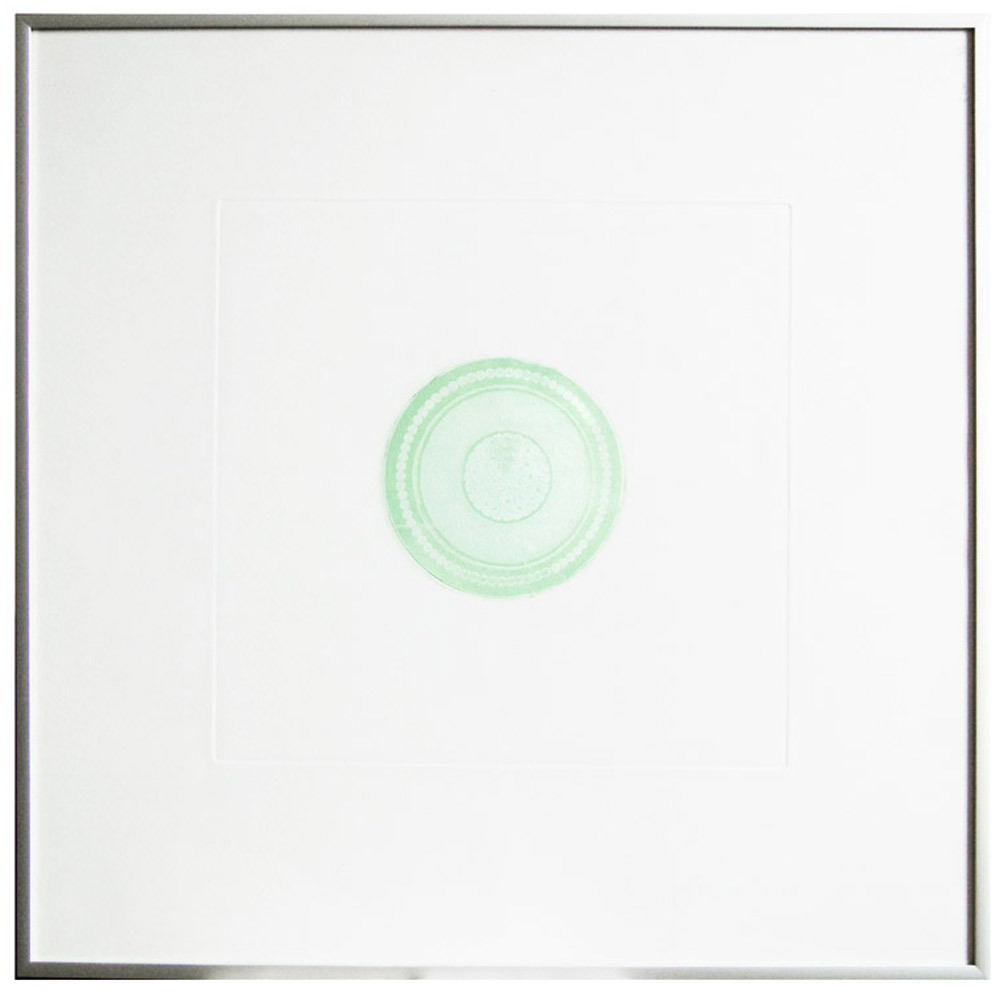
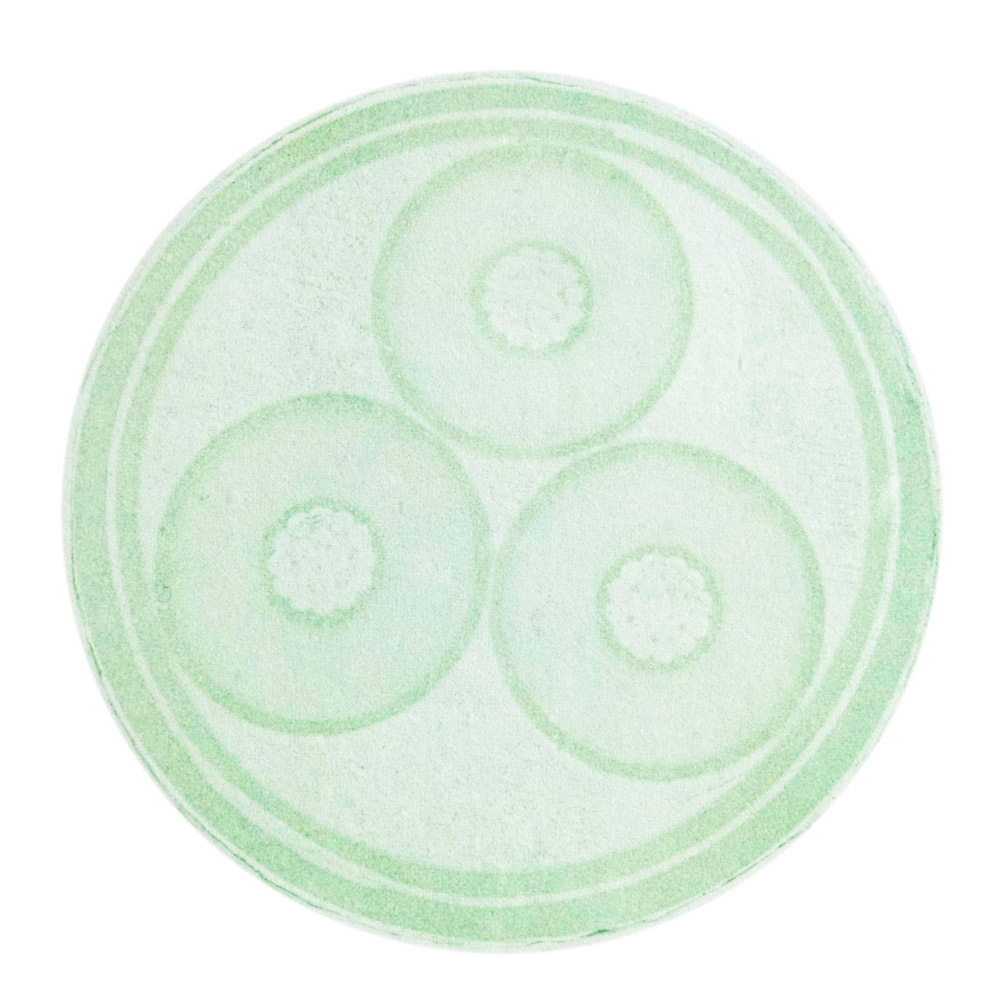
Projects 2/2 : img +en

diff --git a/content/en/projects/kv.md b/content/en/projects/kv.md
@@ -1,0 +1,28 @@
+---
+title: "kV"
+priority: 6
+thumbnail:
+  src: "/images/projects/kv-thumbnail.png"
+  alt: ""
+cover:
+  src: "/images/projects/kv-0.jpg"
+  alt: ""
+moment: "[2016]"
+legend: |
+  Heliogravure on copper.\
+  30 x 30 cm.
+
+  Engravings on paper, copper oxide made from electric cables.\
+  50 x 50 cm.
+description: |
+  Omnipresent in our environment, copper wire is the primary medium for transporting energy and conducting electricity. It is the image of the technical object in its simplest form. 
+
+  The three heliogravures depict cross-sections of electric cables in their original size. Taken from the plates, several prints are obtained using a copper oxide pigment. This pigment, made from oxidized electrical wire, evokes the plasticity of cables in their raw materiality.
+---
+
+![](/images/projects/kv-1.jpg)
+
+![](/images/projects/kv-2.jpg)
+![](/images/projects/kv-3.jpg)
+
+![](/images/projects/kv-4.jpg)

diff --git a/content/fr/projects/309ppp.md b/content/fr/projects/309ppp.md
@@ -14,9 +14,10 @@ legend: |
 
   29 x 41 x 10 cm.
 description: |
-  Après avoir été numérisée à l’aide d’un scanner, l’image d’un morceau de silicium, un matériau semi-conducteur, est dévoilée sur la tranche des feuilles d’une ramette de papier. Le silicium, placé au sommet de la pile de papier, opère ainsi un jeu sur la condition physique et matérielle du numérique.
+  Après avoir été numérisée à l’aide d’un scanner, l’image d’un morceau de silicium (matériau semi-conducteur), est dévoilée sur la tranche des feuilles d’une ramette de papier. Le silicium, placé au sommet de la pile de papier, opère ainsi un jeu sur la condition physique et matérielle du numérique.
 ---
-
-![](/images/projects/309ppp-1.jpg)![](/images/projects/309ppp-2.jpg)
-
 ![](/images/projects/309ppp-3.jpg)
+
+![](/images/projects/309ppp-1.jpg)
+![](/images/projects/309ppp-2.jpg)
+

diff --git a/content/en/projects/feedback.md b/content/en/projects/feedback.md
@@ -1,0 +1,24 @@
+---
+title: "Feedback"
+priority: 8
+thumbnail:
+  src: "/images/projects/feedback-thumbnail.png"
+  alt: ""
+cover:
+  src: "/images/projects/feedback-0.jpg"
+  alt: ""
+moment: "[2017]"
+legend: |
+  Hard disk, microphone, computer, speakers.
+
+
+  Variable dimensions.
+description: |
+  This apparatus uses a feedback loop as its generating principle. A microphone records the sounds emitted when data is recorded on a hard disk. The microphone's capture is recorded directly onto the disk. The sound recording itself becomes the source of its own recording, a dialogue between the medium and the nature of the information generated. The installation questions the constant passage of information from digital to analog.
+---
+
+![](/images/projects/feedback-1.jpg)
+![](/images/projects/feedback-2.jpg)
+
+<lite-vimeo videoid="208955887">
+</lite-vimeo>

diff --git a/content/fr/projects/kv.md b/content/fr/projects/kv.md
@@ -9,11 +9,11 @@ cover:
   alt: ""
 moment: "[2016]"
 legend: |
-  Héliogravures sur cuivre.
+  Héliogravures sur cuivre.\
   30 x 30 cm.
 
 
-  Gravures sur papier, oxyde de cuivre réalisée à partir de câbles électrique. 
+  Gravures sur papier, oxyde de cuivre réalisée à partir de câbles électrique.\
   50 x 50 cm.
 description: |
   Omniprésent dans notre environnement, le fil de cuivre est le premier outil de transport d’énergie et de conductibilité électrique. Il est à l’image de l’objet technique dans son plus simple appareil. 
@@ -24,6 +24,6 @@ description: |
 ![](/images/projects/kv-1.jpg)
 
 ![](/images/projects/kv-2.jpg)
-
 ![](/images/projects/kv-3.jpg)
-![](/images/projects/kv-1.jpg)
+
+![](/images/projects/kv-4.jpg)

diff --git a/content/en/projects/transdata.md b/content/en/projects/transdata.md
@@ -1,0 +1,20 @@
+---
+title: "Transdata"
+thumbnail:
+  src: "/images/projects/transdata-thumbnail.png"
+  alt: ""
+cover:
+  src: "/images/projects/transdata-0.jpg"
+  alt: ""
+priority: 3
+moment: "[2016]"
+legend: |
+  98 piezoelectric transducers, electric wires, digital device.  
+ 
+  70 x 70 cm.
+description: |
+  The installation sonically retransmits the activity of data flows passing through the exhibition space. Variations in the frequencies contained in the cables are translated in real time, and unfold in space like the continuous rustling of the data that surrounds us.
+---
+
+![](/images/projects/transdata-1.jpg)
+![](/images/projects/transdata-2.jpg)

diff --git a/content/en/projects/309ppp.md b/content/en/projects/309ppp.md
@@ -1,0 +1,23 @@
+---
+title: "309ppp"
+priority: 6
+thumbnail:
+  src: "/images/projects/309ppp-thumbnail.png"
+  alt: ""
+cover:
+  src: "/images/projects/309ppp-0.jpg"
+  alt: ""
+moment: "[2017]"
+legend: |
+  Silicon, 309 laser prints. 
+
+
+  29 x 41 x 10 cm.
+description: |
+  After being digitally scanned, the image of a piece of silicon (a semiconductor material) is revealed on the edge of the sheets of a paper ream. The silicon, placed at the top of the paper stack, thus play on the physical and material condition of the digital.
+---
+![](/images/projects/309ppp-3.jpg)
+
+![](/images/projects/309ppp-1.jpg)
+![](/images/projects/309ppp-2.jpg)
+

diff --git a/content/en/projects/male-femelle.md b/content/en/projects/male-femelle.md
@@ -9,11 +9,11 @@ cover:
   alt: ""
 moment: "[2016]"
 legend: |
-  Double édition, 85 pages. 
+  Double edition, 85 pages. 
   
   21 x 21 cm.
 description: |
-  Deux éditions répertoriant les types de connecteurs informatiques et télécoms par ordre alphabétique. L’une énumérant les mâles, l’autre les femelles.
+  Two editions listing computer and telecom connector types in alphabetical order. One lists males, the other females.
 ---
 
 ![](/images/projects/male-femelle-3.jpg)

diff --git a/content/fr/projects/transdata.md b/content/fr/projects/transdata.md
@@ -16,7 +16,5 @@ description: |
   L’installation retransmet de manière sonore l’activité des flux de données qui traversent le lieu d’exposition. Les variations de fréquences contenues dans les câbles sont traduites en temps réel et se déploient dans l’espace comme le bruissement continu des données qui nous entourent.
 ---
 
-![](/images/projects/transdata-0.jpg)
 ![](/images/projects/transdata-1.jpg)
-
 ![](/images/projects/transdata-2.jpg)

diff --git a/content/en/projects/arbor-antenarum.md b/content/en/projects/arbor-antenarum.md
@@ -10,6 +10,7 @@ priority: 13
 moment: "[2021]"
 legend: |
   Metallic antennas, electronics, motors, copper.
+  
   Variable dimensions [Installation: approx. 300 cm x 160 cm].
 
 description: |
